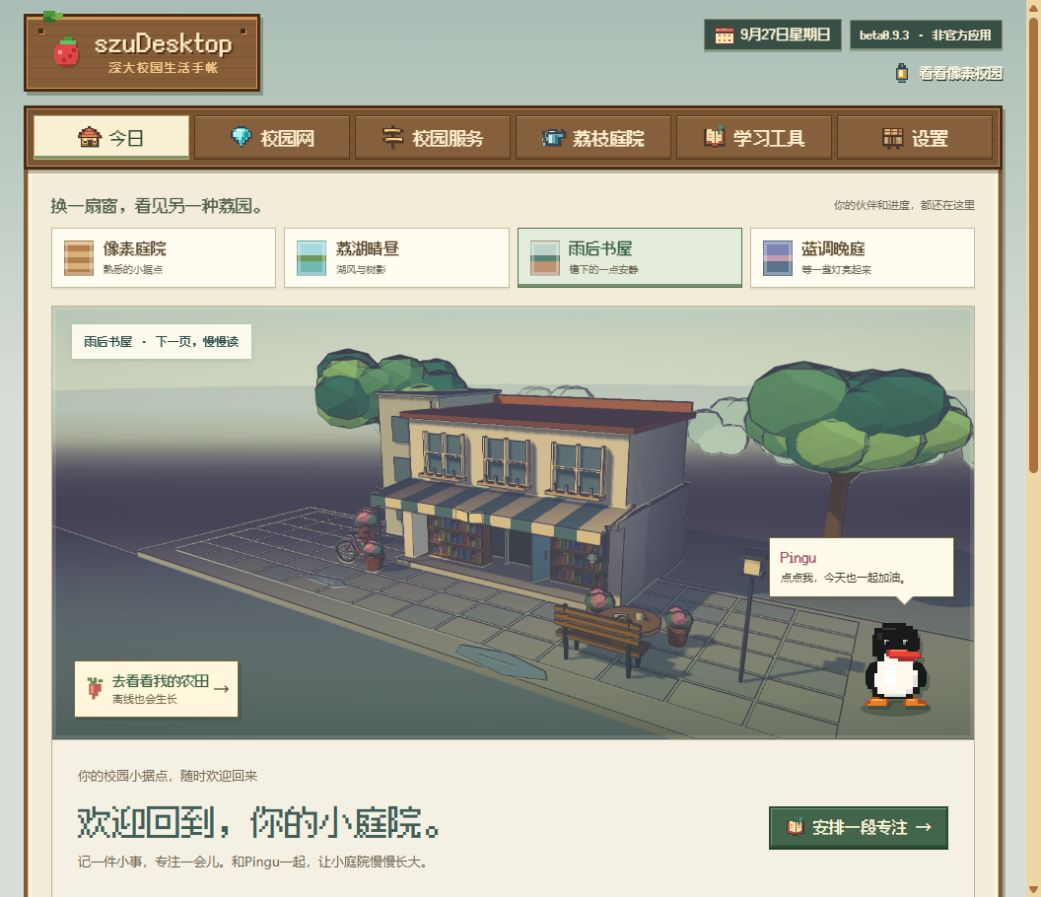
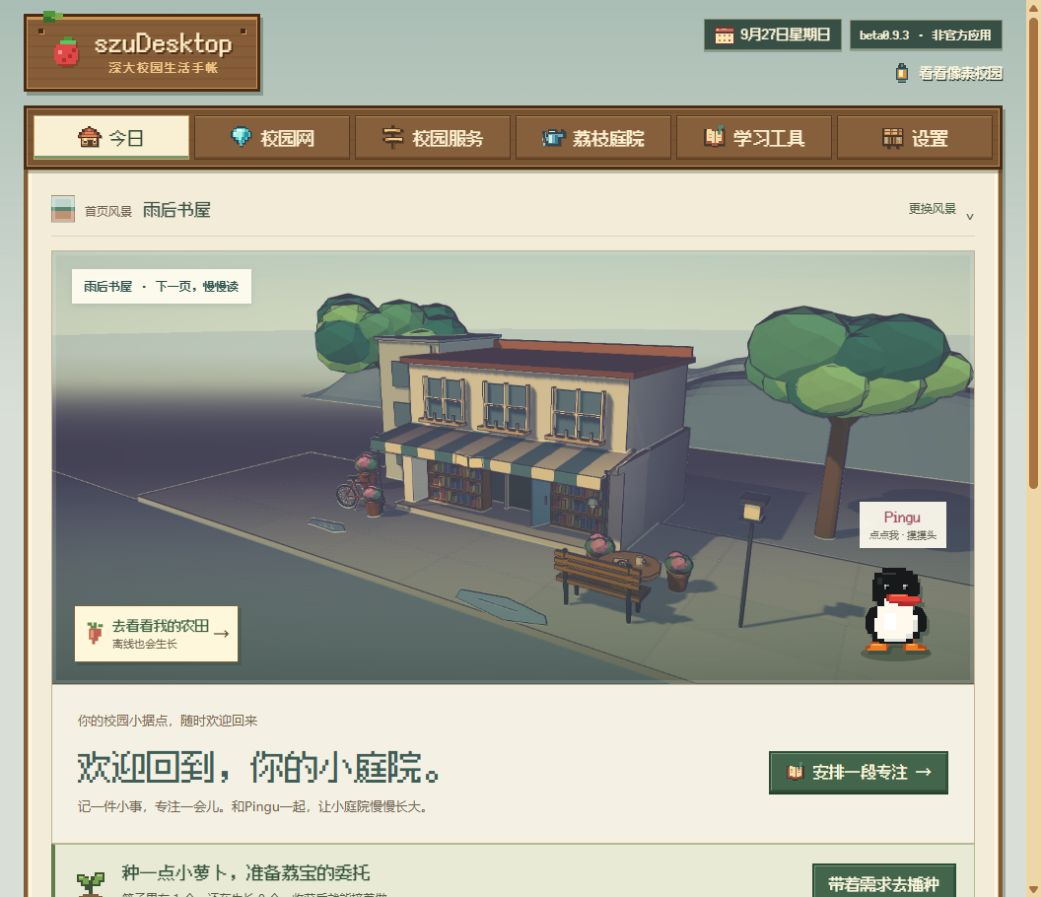
fix(home): polish scenery controls and preserve live scenes

diff --git a/desktop/assets/garden/home-skins.css b/desktop/assets/garden/home-skins.css
@@ -1,8 +1,17 @@
 /* A scene is the view out of the window; the useful desk remains ordinary HTML. */
-.home-skin-picker { margin:0 0 18px; }
-.skin-heading { display:flex; flex-wrap:wrap; align-items:center; justify-content:space-between; gap:6px 16px; margin:0 0 10px; }
-.skin-heading > span { font:17px/1.5 var(--pixel); color:#52624b; }
-.skin-heading > small { font-size:11px; color:#756c5b; }
+.home-skin-picker { margin:0 0 14px; color:#405548; }
+.home-skin-picker > summary { display:flex; align-items:center; justify-content:space-between; gap:16px; min-height:44px; padding:0 0 10px; cursor:pointer; list-style:none; border-bottom:1px solid #a99f8250; }
+.home-skin-picker > summary::-webkit-details-marker { display:none; }
+.home-skin-picker > summary:focus-visible { outline:3px solid #5b8063; outline-offset:3px; }
+.skin-current { display:flex; align-items:center; gap:10px; min-width:0; }
+.skin-current > span:last-child { display:flex; align-items:baseline; gap:12px; }
+.skin-current small { font:12px/1.5 var(--body); color:#72634f; }
+.skin-current strong { font:17px/1.5 var(--pixel); color:#405548; }
+.skin-current .skin-swatch { width:24px; height:28px; flex-basis:24px; }
+.skin-change { display:flex; align-items:center; gap:9px; font:12px/1.5 var(--body); color:#52624b; }
+.skin-change > span { display:inline-block; font-size:18px; }
+.home-skin-picker[open] .skin-change > span { transform:rotate(180deg); }
+.skin-heading { margin:12px 0 10px; font:12px/1.7 var(--body); color:#72634f; }
 .skin-choices { display:grid; grid-template-columns:repeat(4,minmax(0,1fr)); gap:8px; }
 .skin-choices button { min-width:0; justify-content:flex-start; text-align:left; padding:9px 12px; background:#fffcf1; border:1px solid #c5baa2; box-shadow:0 2px #81745422; gap:10px; }
 .skin-choices button > span:last-child { min-width:0; }
@@ -36,6 +45,10 @@
 .is-scenic .home-pet-note::after { border-width:1px; right:43px; bottom:-7px; }
 .is-scenic .home-pet-note strong { font-size:15px; margin-bottom:2px; }
 .is-scenic .home-pet-note span { font-size:11px; }
+.is-scenic .home-pet-note.is-quiet { width:auto; max-width:150px; min-width:76px; right:28px; bottom:138px; padding:5px 10px; border:0; background:#fffdf0ed; box-shadow:0 2px 4px #25393720; text-align:center; }
+.is-scenic .home-pet-note.is-quiet strong { margin:0; }
+.is-scenic .home-pet-note.is-quiet span { font-size:10px; color:#6a6856; }
+.is-scenic .home-pet-note.is-quiet::after { display:none; }
 .is-scenic .home-harvest { bottom:22px; left:22px; min-height:58px; border-width:1px; max-width:calc(100% - 150px); }
 .is-scenic .garden-built-scene--home { left:280px; right:160px; bottom:22px; max-width:none; justify-content:center; }
 body[data-page=home]:not([data-home-skin=pixel]) { background:#d9e5dc; }
@@ -48,17 +61,19 @@ body[data-home-skin=bookshop] .is-scenic .home-letter { background:#f4f0e3; }
 body[data-home-skin=bookshop] .is-scenic .home-letter h1 { color:#405e57; }
 body[data-home-skin=terrace] .is-scenic .home-letter { background:#f4e9df; }
 body[data-home-skin=terrace] .is-scenic .home-letter h1 { color:#545771; }
-body[data-theme=night] .skin-heading > span { color:#d7dbb7; }
-body[data-theme=night] .skin-heading > small { color:#c7bda3; }
 @media(max-width:700px) {
  .skin-choices { grid-template-columns:repeat(2,minmax(0,1fr)); }
- .skin-heading > small { display:none; }
+ .skin-current > span:last-child { gap:8px; }
+ .skin-current strong { font-size:15px; }
+ .skin-current small { font-size:10px; }
+ .skin-change { font-size:11px; gap:4px; }
  .is-scenic .home-landscape { min-height:350px; }
  .is-scenic .home-letter { display:block; padding:20px; }
  .is-scenic .home-letter h1 { font-size:26px; }
  .is-scenic .home-letter .actions { margin-top:15px; }
  .is-scenic .landscape-caption { left:12px; top:12px; max-width:calc(100% - 24px); font-size:11px; padding:7px 9px; }
  .is-scenic .home-pet-note { right:10px; bottom:125px; width:145px; }
+ .is-scenic .home-pet-note.is-quiet { right:14px; bottom:112px; max-width:120px; }
  .is-scenic .home-pet { right:13px; bottom:15px; width:82px; height:95px; }
  .is-scenic .home-pet .sprite { width:72px; height:84px; }
  .is-scenic .home-harvest { left:12px; bottom:15px; max-width:calc(100% - 105px); padding:8px; gap:6px; }

diff --git a/desktop/electron/smoke_installer.py b/desktop/electron/smoke_installer.py
@@ -257,7 +257,7 @@ def assert_user_data(data, expected):
         check("upgrade preserves " + key, data[key] == expected[key])
     # The baseline fixture remains a real old-format save. Only documented new
     # defaults may be added; every original field and its value must survive.
-    expected_preferences = {"noticeSource": "undergrad", "studentLevel": "undergrad",
+    expected_preferences = {"noticeSource": "undergrad", "studentLevel": "undergrad", "homeSkin": "pixel",
                             **expected["preferences"]}
     expected_todos = [{"date": "", "createdAt": 0, "completedAt": 0, "archived": False, **todo}
                       for todo in expected["todos"]]

diff --git a/docs/README_en.md b/docs/README_en.md
@@ -27,11 +27,11 @@ Unofficial · Built by a student · Not affiliated with Shenzhen University
 
 ## Source preview: preparing for beta0.9.3
 
-**These changes are not publicly released; the download above remains beta0.9.2.** The beta0.9.3 source candidate adds three selectable cel-shaded home scenes in draft [PR #19](https://github.com/SzuDesktopTeam/szudesktop/pull/19). Integration and verification are recorded in [STATUS section 61](STATUS.md#61-三渲二首页风景2026-09-27源码候选). Candidate installers and CI evidence in section 60 belong to the earlier 2048 artwork version.
+**These changes are not publicly released; the download above remains beta0.9.2.** The beta0.9.3 source adds three selectable cel-shaded home scenes in [PR #19](https://github.com/SzuDesktopTeam/szudesktop/pull/19). Integration and final verification are recorded in [STATUS sections 61–62](STATUS.md#62-首页收尾与合并验收2026-09-27). Local candidate installers in section 60 belong to the earlier 2048 artwork version.
 
 ### A different window onto campus
 
-Choose **Lakeside Daylight, After-rain Bookshop or Blue-hour Terrace** at the top of the home page, or return to the original **Pixel Courtyard**. The selection is saved locally and survives reopening; companions, crops and tasks keep their existing progress.
+Open **Change scenery** at the top of the home page to choose **Lakeside Daylight, After-rain Bookshop or Blue-hour Terrace**, or return to the original **Pixel Courtyard**. The selection is saved locally and survives reopening; companions, crops and tasks keep their existing progress. The picker folds away after a selection, leaving room for the view.
 
 | Scene | Outside the window |
 |---|---|
@@ -46,6 +46,8 @@ Choose **Lakeside Daylight, After-rain Bookshop or Blue-hour Terrace** at the to
 These campus-inspired scenes use real 3D geometry. The stepped lighting, tinted shadows, depth ink, sky and colour pipeline are adapted from MIT-licensed [Sakura Crossing](https://github.com/Kenton-GMI/sakura-crossing), with Three.js 0.180.0 bundled locally. Scene geometry is new work for this project; attribution and adaptations are recorded in [Third-party notices](../THIRD_PARTY_NOTICES.md).
 
 Scenes render only while the home view is visible and release their resources when leaving it. The animation setting covers companions and home scenery, supports a still frame and respects system reduced motion. If 3D rendering is unavailable, the pixel campus and normal controls remain accessible.
+
+Pet care and task saves reuse the same canvas, keeping background animation continuous. A small nameplate replaces the idle companion bubble; replies expand briefly and fold away again. Dusk text contrast, distant greenery and bookshop paving have also been refined.
 
 The bottom hint bar now follows the active companion, keeping its portrait and name consistent after switching, renaming, navigation and reopening. This fix is available in source and the local preview, but not in a public installer yet; see STATUS section 60.4 for verification.
 

diff --git a/README.md b/README.md
@@ -27,11 +27,11 @@
 
 ## 源码预览：为 beta0.9.3 准备
 
-**以下改动尚未公开发布，上方下载仍是 beta0.9.2。** 当前 beta0.9.3 源码候选新增三套可切换的三渲二首页风景，沿用草稿 [PR #19](https://github.com/SzuDesktopTeam/szudesktop/pull/19)。本轮接入与验收记录集中在 [STATUS 第 61 节](docs/STATUS.md#61-三渲二首页风景2026-09-27源码候选)。第 60 节的候选安装包和 CI 记录对应此前的 2048 素材版本。
+**以下改动尚未公开发布，上方下载仍是 beta0.9.2。** 当前 beta0.9.3 源码新增三套可切换的三渲二首页风景，整合于 [PR #19](https://github.com/SzuDesktopTeam/szudesktop/pull/19)。接入与收尾验收记录集中在 [STATUS 第 61–62 节](docs/STATUS.md#62-首页收尾与合并验收2026-09-27)。第 60 节的本地候选安装包对应此前的 2048 素材版本。
 
 ### 换一扇窗，看见另一种荔园
 
-首页顶部可以选择 **荔湖晴昼、雨后书屋、蓝调晚庭**，也能随时回到原来的**像素庭院**。选择会保存在本机，重新打开继续使用；伙伴、农田和待办共用原来的进度。
+点击首页顶部的**更换风景**，可以选择 **荔湖晴昼、雨后书屋、蓝调晚庭**，也能随时回到原来的**像素庭院**。选择会保存在本机，重新打开继续使用；伙伴、农田和待办共用原来的进度。选完后面板收起，把位置留给风景。
 
 | 风景 | 窗外有什么 |
 |---|---|
@@ -46,6 +46,8 @@
 这些校园主题小景由真实三维模型实时绘制。经 MIT 许可改编 [Sakura Crossing](https://github.com/Kenton-GMI/sakura-crossing) 的分层光照、彩色阴影、深度描线、天空和调色管线，使用随程序提供的 Three.js 0.180.0；场景几何为本项目新作，来源和改动见 [第三方说明](THIRD_PARTY_NOTICES.md)。
 
 风景只在首页可见时绘制，离开页面会释放资源。设置里的「开启动画（伙伴与首页风景）」可切为静态画面，也遵守系统减少动态偏好；不支持立体渲染时保留像素校园和全部操作。
+
+摸摸伙伴或保存待办时，背景继续使用同一块画布，保持动画连贯。伙伴平时只显示小名牌，回应后再自动收起气泡；暮色文字、远景树带和书屋铺地也完成了收尾调整。
 
 底部提示条现在跟随当前伙伴：切换宠物、修改名字、切换页面和重新打开后，头像与名字保持一致。此修复已更新源码和本地预览，尚未纳入公开安装包；验收记录见 STATUS 第 60.4 节。
 
